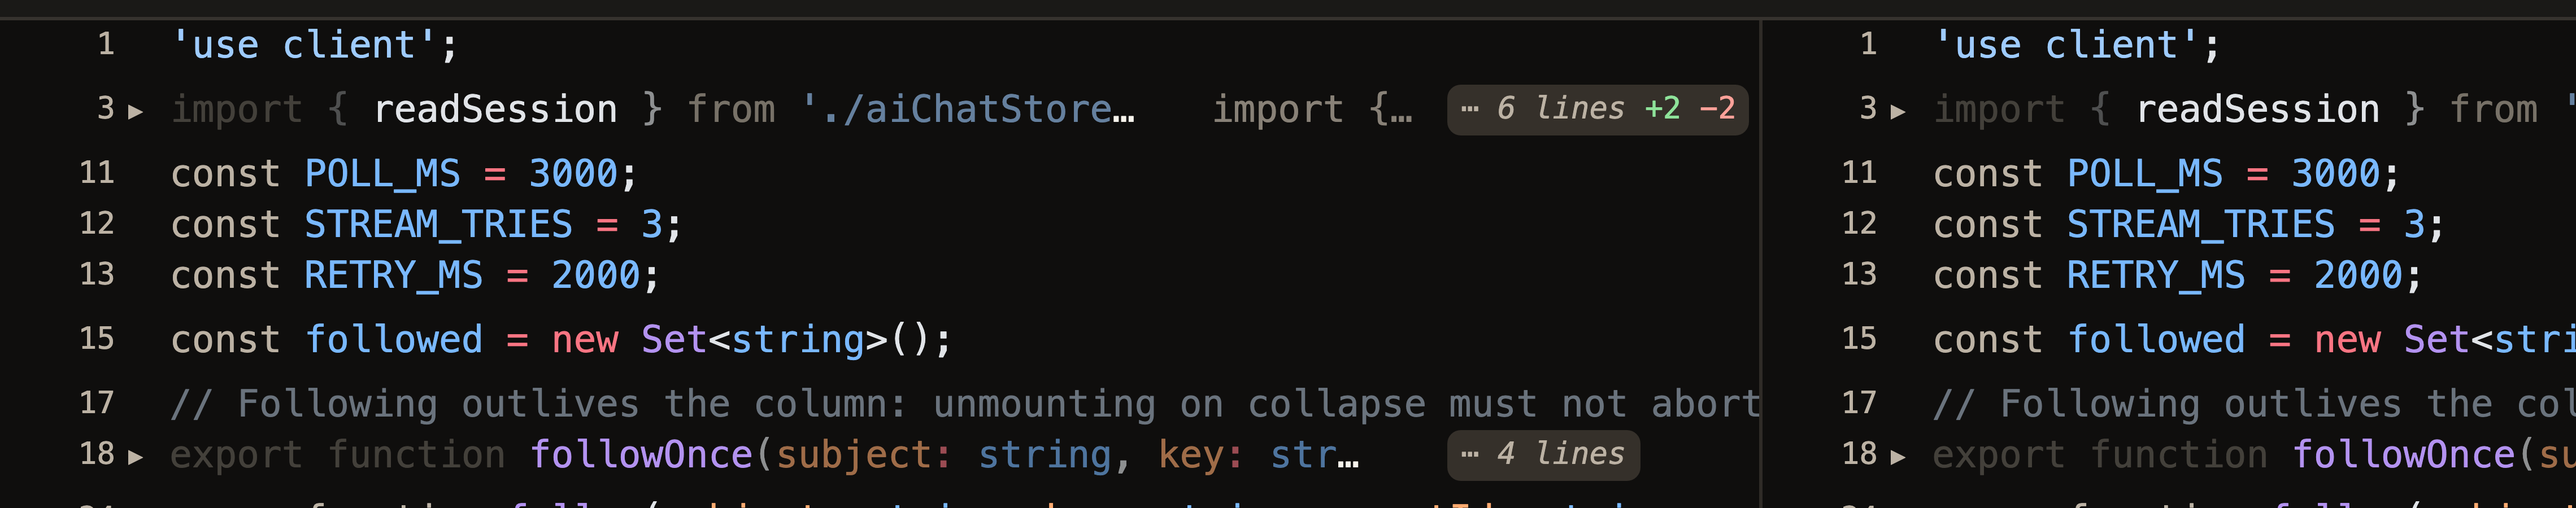
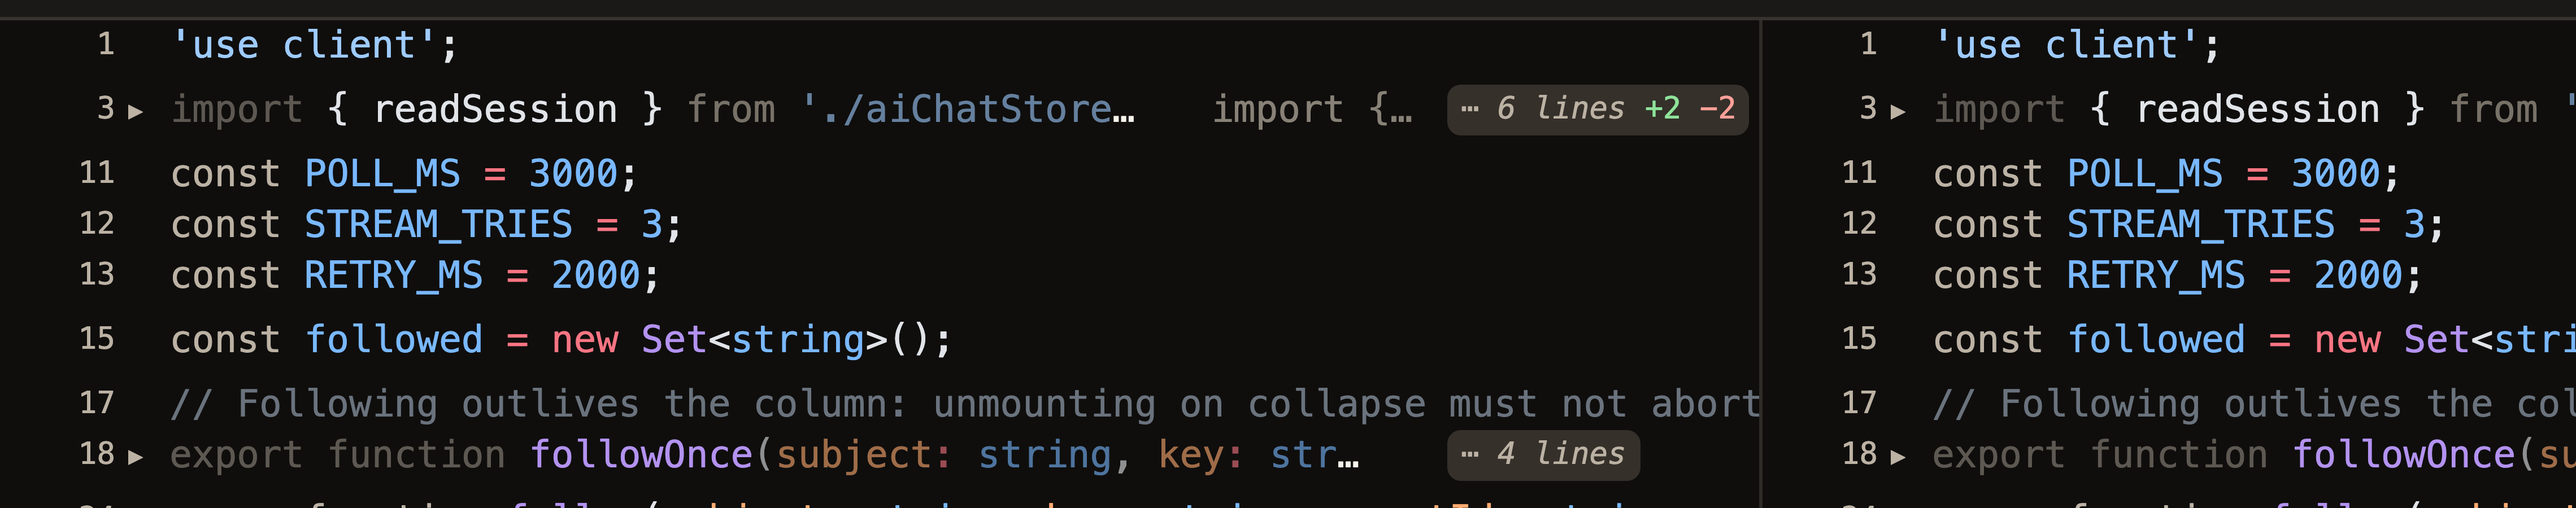
Pick fold-header keywords from Shiki scopes
The prefix run is now whatever the grammar calls a keyword, storage
modifier, punctuation or comment, so const, let, interface, def and the
rest fade without a hand-kept word list. Keywords sit at 0.45 rather
than 0.3.

diff --git a/src/features/pull-requests/foldDimming.ts b/src/features/pull-requests/foldDimming.ts
@@ -1,15 +1,17 @@
-import { DECLARATION_WORDS, type CodeSegment } from './codeSegments';
+import type { CodeSegment } from './codeSegments';
+import type { ThemedToken } from './diffHighlight';
 
-const KEYWORD_OPACITY = 0.3;
+const KEYWORD_OPACITY = 0.45;
 const TAIL_OPACITY = 0.6;
+const LEADING_SCOPES = /^(keyword|storage|punctuation|comment|meta\.brace)/;
 
 interface NameSpan {
   start: number;
   end: number;
 }
 
-export function dimAroundName(segments: CodeSegment[], text: string): CodeSegment[] {
-  const name = declaredName(text);
+export function dimAroundName(segments: CodeSegment[], tokens: ThemedToken[] | null): CodeSegment[] {
+  const name = tokens && declaredName(tokens);
   if (!name) return segments;
   let offset = 0;
   return segments.flatMap((segment) => {
@@ -19,12 +21,22 @@ export function dimAroundName(segments: CodeSegment[], text: string): CodeSegmen
   });
 }
 
-function declaredName(text: string): NameSpan | null {
-  for (const match of text.matchAll(/[A-Za-z_$][\w$]*/g)) {
-    if (DECLARATION_WORDS.has(match[0])) continue;
-    return { start: match.index, end: match.index + match[0].length };
+function declaredName(tokens: ThemedToken[]): NameSpan | null {
+  let at = 0;
+  for (const token of tokens) {
+    if (namesTheBlock(token)) return { start: at, end: at + token.content.length };
+    at += token.content.length;
   }
   return null;
+}
+
+function namesTheBlock(token: ThemedToken): boolean {
+  return /\w/.test(token.content) && !LEADING_SCOPES.test(innermostScope(token));
+}
+
+function innermostScope(token: ThemedToken): string {
+  const scopes = token.explanation?.[0]?.scopes ?? [];
+  return scopes[scopes.length - 1]?.scopeName ?? '';
 }
 
 function dimSegment(segment: CodeSegment, start: number, name: NameSpan): CodeSegment[] {

diff --git a/src/features/pull-requests/DiffSide.tsx b/src/features/pull-requests/DiffSide.tsx
@@ -189,7 +189,7 @@ function DiffLineView({
           className={folded ? `${CODE} min-w-0 overflow-hidden text-ellipsis` : CODE}
           onClick={onCodePress ? (event) => onCodePress(line, event) : undefined}
         >
-          {(folded ? dimAroundName(segments, cell.text) : segments).map((segment, index) => (
+          {(folded ? dimAroundName(segments, lineTokens) : segments).map((segment, index) => (
             <span
               key={index}
               className={segment.emphasized ? emphasisTone(side) : undefined}

diff --git a/src/features/pull-requests/codeSegments.ts b/src/features/pull-requests/codeSegments.ts
@@ -19,7 +19,7 @@ export function codeSegments(
   return splitColoredByRanges(colored, ranges);
 }
 
-export const DECLARATION_WORDS = new Set([
+const DECLARATION_WORDS = new Set([
   'export', 'import', 'default', 'function', 'interface', 'type', 'class', 'enum', 'namespace',
   'abstract', 'async', 'const', 'let', 'var', 'static', 'public', 'private', 'protected', 'readonly',
   'declare', 'extends', 'implements', 'def', 'fn', 'func', 'struct', 'impl', 'trait', 'module',

diff --git a/src/features/pull-requests/diffHighlight.tsx b/src/features/pull-requests/diffHighlight.tsx
@@ -46,6 +46,7 @@ export async function tokenizeCode(text: string, lang: string): Promise<ThemedTo
       lang: lang as Parameters<Highlighter['codeToTokens']>[1]['lang'],
       themes: { light: 'github-light', dark: 'github-dark' },
       defaultColor: false,
+      includeExplanation: 'scopeName',
     }).tokens;
   } catch {
     return null;
